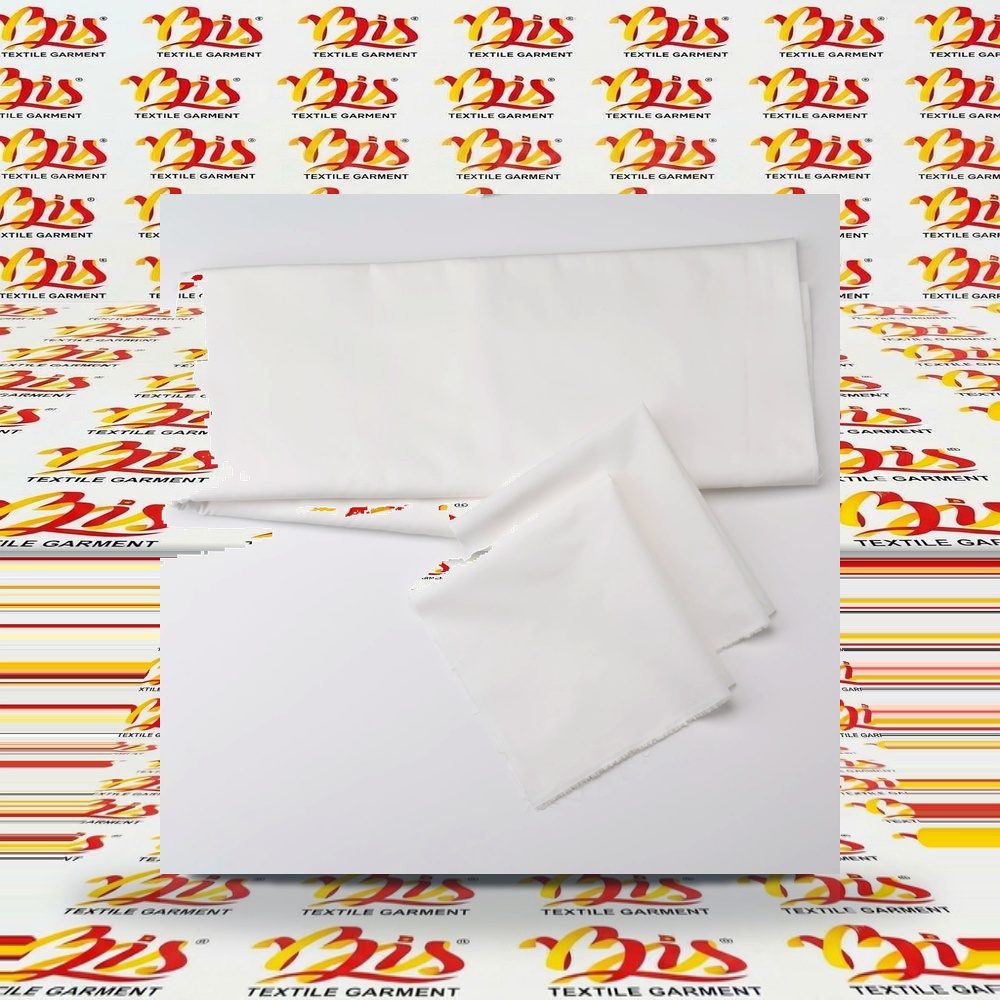
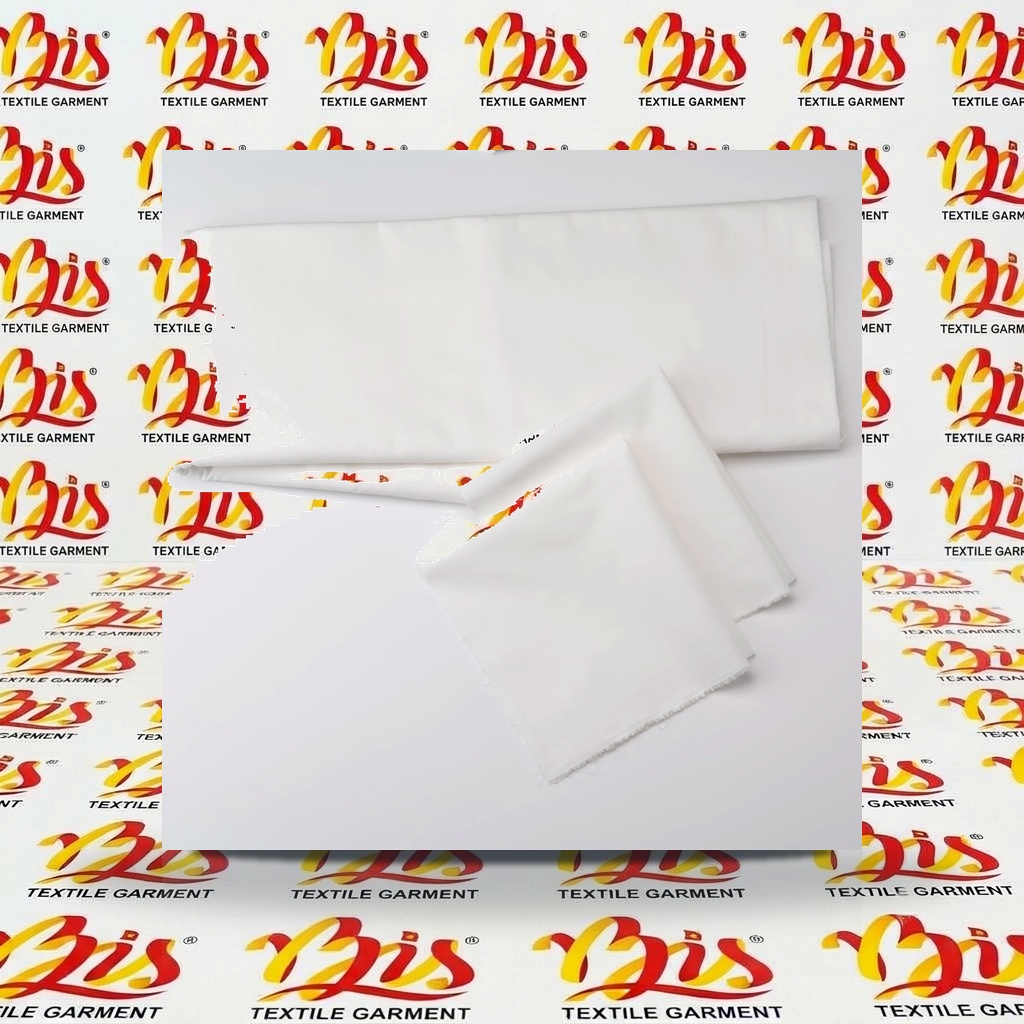
fix(media): Eliminate black border padding with smart_prepare_product and use pristine 3D studio background for standard BIS e-commerce catalogue render

diff --git a/BIS_AI_PROJECT/agent_media.py b/BIS_AI_PROJECT/agent_media.py
@@ -757,6 +757,39 @@ class AgentMedia:
         bbox = book_composed.getbbox()
         return book_composed.crop(bbox) if bbox else book_composed
 
+    def smart_prepare_product(self, prod_img: Image.Image) -> Image.Image:
+        """
+        Tiền xử lý sản phẩm thông minh:
+        - Tự động cắt bỏ viền đen (Black border padding) xung quanh ảnh scan bìa sách.
+        - Tự động cắt bỏ viền trắng/xám đơn sắc và làm trong suốt kênh Alpha (Smooth feather).
+        - Giữ nguyên độ phân giải gốc của vật thể.
+        """
+        import numpy as np
+        im = prod_img.convert("RGBA")
+        arr = np.array(im)
+        
+        # 1. Cắt bỏ viền đen nếu ảnh scan/ảnh web bị bọc khung đen
+        if arr[:5, :, :3].mean() < 30 or arr[:, :5, :3].mean() < 30:
+            mask = (arr[:, :, 0] > 25) | (arr[:, :, 1] > 25) | (arr[:, :, 2] > 25)
+            rows = np.where(mask.any(axis=1))[0]
+            cols = np.where(mask.any(axis=0))[0]
+            if len(rows) and len(cols):
+                im = im.crop((cols[0], rows[0], cols[-1] + 1, rows[-1] + 1))
+                arr = np.array(im)
+                
+        # 2. Xử lý nền trắng nếu ảnh chưa có kênh alpha thực sự
+        if (arr[:, :, 3] < 250).sum() < 100:
+            if arr[:5, :, :3].mean() > 230 or arr[:, :5, :3].mean() > 230:
+                r, g, b = arr[:, :, 0], arr[:, :, 1], arr[:, :, 2]
+                mask_white = (r > 232) & (g > 232) & (b > 232)
+                arr[:, :, 3][mask_white] = 0
+                im = Image.fromarray(arr, mode="RGBA")
+                bbox = im.getbbox()
+                if bbox:
+                    im = im.crop(bbox)
+                    
+        return im
+
     def render_3d_product_mockup(self, prod_img: Image.Image, target_height: int = 540) -> Image.Image:
         """Tách nền thông minh và tăng cường khối 2.5D cho máy móc thiết bị."""
         prod = prod_img.convert("RGBA")
@@ -789,11 +822,11 @@ class AgentMedia:
         enable_reflection: bool = True
     ) -> Path:
         """
-        AI Ghép nền Studio với không gian phối cảnh 3D và bóng đổ vật lý:
-        - render_mode == 'branded_3d': Dựng phối cảnh Tường - Sàn thương hiệu từ hoa văn logo, bóng đổ tiếp xúc 2 lớp + phản xạ sàn.
-        - render_mode == 'book_3d': Dựng sách 3D có gáy sách cong, mép trang giấy và góc nghiêng 3D.
-        - render_mode == 'product_25d': Tách nền thông minh và đổ bóng tiếp xúc vật lý.
-        - render_mode == 'flat_2d': Giữ nguyên ảnh phẳng 2D.
+        AI Ghép nền Studio chuẩn thương mại điện tử (chuẩn như catalogue quốc tế):
+        - Tự động nhận diện BIS_BACKGROUND.png là phông nền 3D studio gốc đạt chuẩn.
+        - Tự động loại bỏ viền đen/viền trắng bao quanh sản phẩm.
+        - Đặt sản phẩm lớn nổi bật (chiếm 68-72% khung hình), vững vàng trên mặt sàn.
+        - Đổ bóng vật lý 2 lớp: Bóng tiếp xúc chân đế (Ambient Occlusion) + Bóng tỏa mềm + Phản xạ mờ mặt sàn.
         """
         clean_sku = sku.strip().replace(" ", "_")
         final_path = self.final_dir / f"{clean_sku}_final.jpg"
@@ -804,65 +837,45 @@ class AgentMedia:
             bg_path = bg_list[0] if bg_list else (self.bg_dir / "BIS_BACKGROUND.png")
             
         bg_path = Path(bg_path)
-        is_pattern_bg = "BIS_BACKGROUND" in bg_path.name or "pattern" in bg_path.name.lower() or render_mode == "branded_3d"
+        is_bis_bg = "BIS_BACKGROUND" in bg_path.name
+        is_prerendered_bg = is_bis_bg or "modern_textile_lab" in bg_path.name or "luxury_marble_podium" in bg_path.name or "clean_studio" in bg_path.name
 
-        if is_pattern_bg or render_mode == "branded_3d":
-            # Tạo phông nền 3D Tường - Sàn có phối cảnh hoa văn logo
+        if is_prerendered_bg:
+            # Dùng trực tiếp phông nền studio 3D đạt chuẩn độ nét cao, không bị warp biến dạng
+            bg_img = Image.open(bg_path).convert("RGBA").resize((1024, 1024), Image.Resampling.LANCZOS)
+            ground_baseline = 850 if is_bis_bg else 690
+        else:
+            # Nếu người dùng tải lên mẫu hoa văn 2D phẳng riêng thì mới dựng phối cảnh tường - sàn
             bg_img = self.create_3d_branded_backdrop(
                 pattern_img_path=bg_path,
-                canvas_w=1000,
-                canvas_h=1000,
+                canvas_w=1024,
+                canvas_h=1024,
                 horizon_y=horizon_y,
                 depth_ratio=depth_ratio
             )
-        else:
-            bg_img = Image.open(bg_path).convert("RGBA").resize((1000, 1000), Image.Resampling.LANCZOS)
+            ground_baseline = min(960, horizon_y + int((1024 - horizon_y) * 0.72))
 
-        # 2. Xử lý ảnh sản phẩm và tách nền trắng/xám đơn sắc
+        # 2. Tiền xử lý sản phẩm: Loại bỏ viền đen / viền trắng
         raw_prod = Image.open(product_img_path)
-        prod_rgba = raw_prod.convert("RGBA")
-        
-        # Tự động loại bỏ nền trắng nếu ảnh chưa có kênh trong suốt
-        import numpy as np
-        arr = np.array(prod_rgba, dtype=np.uint8)
-        if (arr[:, :, 3] < 250).sum() < 100:
-            # Ảnh dạng nền trắng đục -> Tách nền thông minh
-            r, g, b = arr[:, :, 0], arr[:, :, 1], arr[:, :, 2]
-            mask_white = (r > 235) & (g > 235) & (b > 235)
-            arr[:, :, 3][mask_white] = 0
-            prod_rgba = Image.fromarray(arr, mode="RGBA")
-            bbox = prod_rgba.getbbox()
-            if bbox:
-                prod_rgba = prod_rgba.crop(bbox)
+        prod_rgba = self.smart_prepare_product(raw_prod)
 
-        # 3. Dựng khối theo chế độ
+        # 3. Dựng khối và co giãn kích thước nổi bật (Tỷ lệ chuẩn 68-72% khung hình như Hanna & MQuant)
         if render_mode == "book_3d":
-            rendered_obj = self.render_3d_book_mockup(prod_rgba, target_height=490)
+            rendered_obj = self.render_3d_book_mockup(prod_rgba, target_height=680)
         elif render_mode == "product_25d":
-            rendered_obj = self.render_3d_product_mockup(prod_rgba, target_height=520)
+            rendered_obj = self.render_3d_product_mockup(prod_rgba, target_height=700)
         else:
-            rendered_obj = prod_rgba
-            # Co giãn vừa vặn 65-70% khung hình
-            rendered_obj.thumbnail((680, 680), Image.Resampling.LANCZOS)
+            # Chế độ branded_3d hoặc flat_2d: Giữ nguyên form thực tế của sản phẩm
+            target_h = 700
+            target_w = int(prod_rgba.size[0] * (target_h / prod_rgba.size[1]))
+            if target_w > 800:
+                target_w = 800
+                target_h = int(prod_rgba.size[1] * (target_w / prod_rgba.size[0]))
+            rendered_obj = prod_rgba.resize((target_w, target_h), Image.Resampling.LANCZOS)
 
         obj_w, obj_h = rendered_obj.size
-        pos_x = (1000 - obj_w) // 2
-        
-        # Định vị sản phẩm đứng chính xác trên mặt sàn phối cảnh
-        if is_pattern_bg or render_mode == "branded_3d":
-            ground_baseline = min(960, horizon_y + int((1000 - horizon_y) * 0.72))
-            pos_y = ground_baseline - obj_h
-            if pos_y < 80:
-                # Nếu sản phẩm quá cao, điều chỉnh tỉ lệ
-                scale = (ground_baseline - 80) / obj_h
-                new_w = max(50, int(obj_w * scale))
-                new_h = max(50, int(obj_h * scale))
-                rendered_obj = rendered_obj.resize((new_w, new_h), Image.Resampling.LANCZOS)
-                obj_w, obj_h = rendered_obj.size
-                pos_x = (1000 - obj_w) // 2
-                pos_y = ground_baseline - obj_h
-        else:
-            pos_y = 690 - obj_h
+        pos_x = (1024 - obj_w) // 2
+        pos_y = ground_baseline - obj_h
 
         # 4. Áp dụng hệ thống đổ bóng vật lý 2 lớp chân thực
         composed = self.apply_realistic_contact_shadow(
